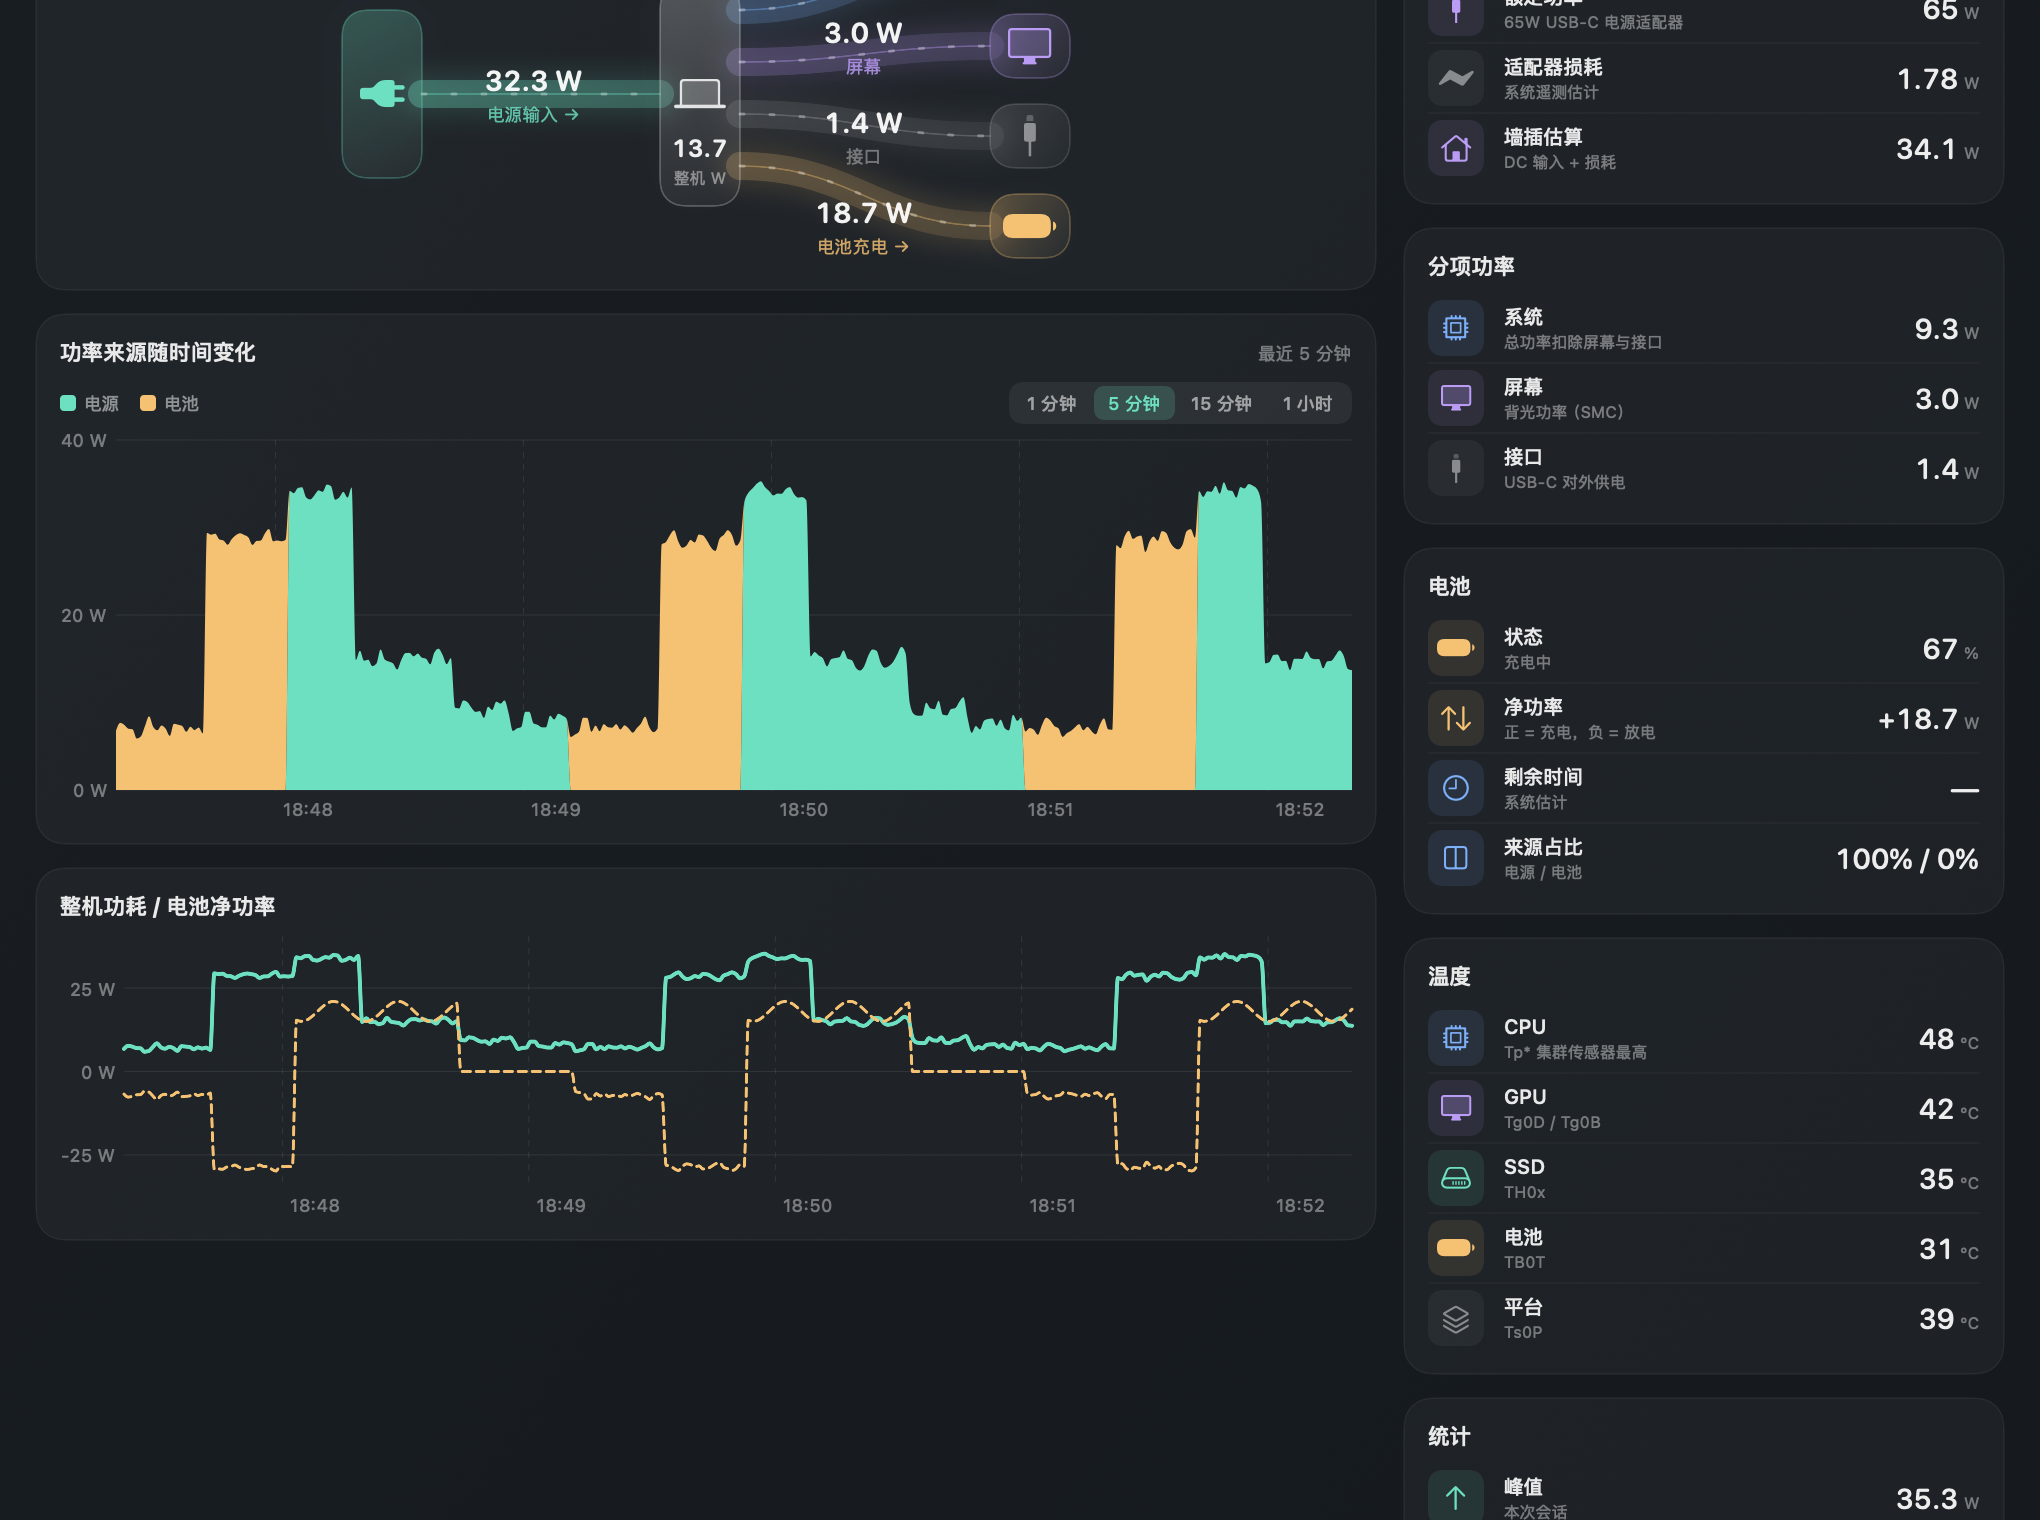
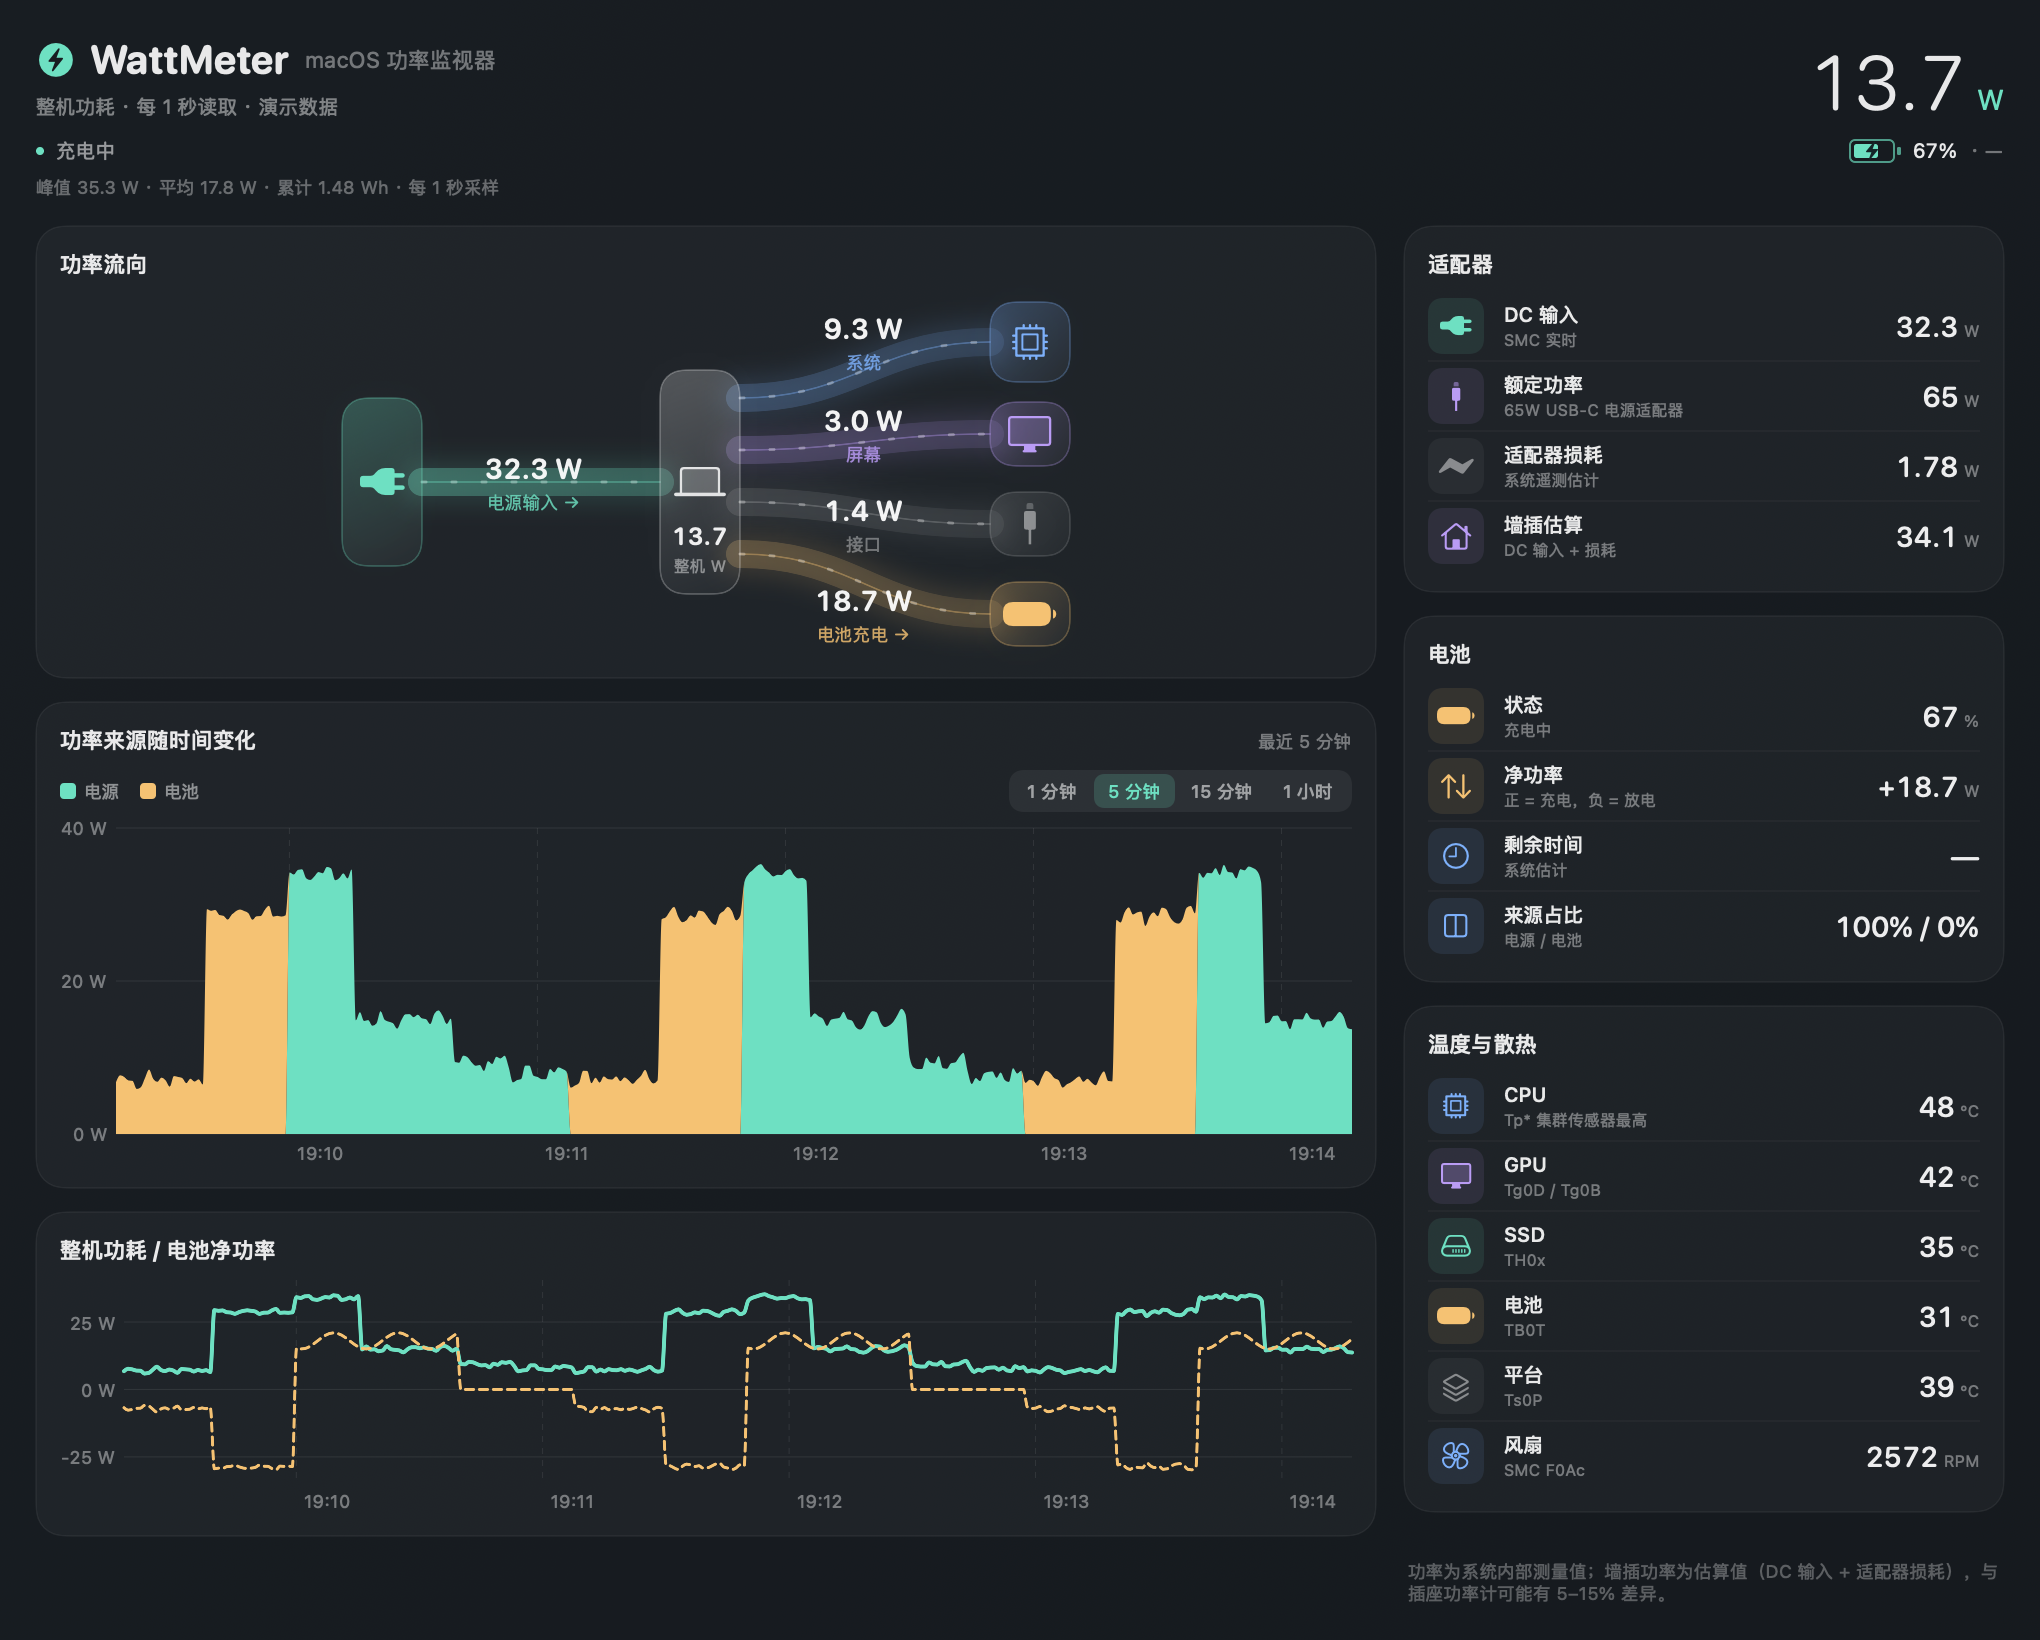
fix: size the main window to its content so nothing is clipped
- compact the layout: merge fan into the temperature card, move session
  stats into the header, drop the duplicate component card, shrink charts
- window content height is now 820 pt (was 740 pt) which matches the
  measured intrinsic content height, so the bottom of the window is no
  longer cut off
- add a vertical scroll fallback if the window is resized smaller
- update README screenshots and window/panel dimensions

diff --git a/Sources/WattMeterUI/MainWindowView.swift b/Sources/WattMeterUI/MainWindowView.swift
@@ -4,14 +4,40 @@ import WattMeterCore
 /// 主窗口：更大的流向图与图表，以及适配器 / 电池 / 统计侧栏。
 public struct MainWindowView: View {
     @ObservedObject private var store: PowerStore
+    /// 窗口里使用可滚动容器；离屏预览时关闭（ScrollView 无法被 ImageRenderer 渲染）
+    private let scrollable: Bool
 
-    public init(store: PowerStore) {
+    public init(store: PowerStore, scrollable: Bool = false) {
         self.store = store
+        self.scrollable = scrollable
     }
 
     private var samples: [PowerReading] { store.readings(in: store.windowSeconds) }
 
+    @ViewBuilder
     public var body: some View {
+        if scrollable {
+            ScrollView(.vertical, showsIndicators: false) {
+                content
+                    .padding(18)
+                    .frame(minWidth: 980)
+            }
+            .background(PanelBackground())
+            .environment(\.colorScheme, .dark)
+            .preferredColorScheme(.dark)
+            .foregroundStyle(.white.opacity(0.9))
+        } else {
+            content
+                .padding(18)
+                .frame(minWidth: 980)
+                .background(PanelBackground())
+                .environment(\.colorScheme, .dark)
+                .preferredColorScheme(.dark)
+                .foregroundStyle(.white.opacity(0.9))
+        }
+    }
+
+    private var content: some View {
         VStack(alignment: .leading, spacing: 14) {
             header
 
@@ -35,11 +61,11 @@ public struct MainWindowView: View {
                                     onSelect: { store.setWindow($0) }
                                 )
                             }
-                            SourceAreaChart(readings: samples, height: 190)
+                            SourceAreaChart(readings: samples, height: 168)
                         }
                     }
                     Card(title: "整机功耗 / 电池净功率") {
-                        PowerLineChart(readings: samples, height: 140)
+                        PowerLineChart(readings: samples, height: 116)
                     }
                 }
                 .frame(maxWidth: .infinity)
@@ -48,16 +74,10 @@ public struct MainWindowView: View {
                     .frame(width: 300)
             }
         }
-        .padding(18)
-        .frame(minWidth: 980, minHeight: 720)
-        .background(PanelBackground())
-        .environment(\.colorScheme, .dark)
-        .preferredColorScheme(.dark)
-        .foregroundStyle(.white.opacity(0.9))
     }
 
     private var header: some View {
-        VStack(alignment: .leading, spacing: 8) {
+        VStack(alignment: .leading, spacing: 6) {
             HStack(alignment: .top) {
                 VStack(alignment: .leading, spacing: 5) {
                     HStack(spacing: 7) {
@@ -77,7 +97,7 @@ public struct MainWindowView: View {
                 Spacer()
                 HStack(alignment: .firstTextBaseline, spacing: 5) {
                     Text(PowerFormat.watts(store.latest?.totalW))
-                        .font(.system(size: 44, weight: .light, design: .rounded))
+                        .font(.system(size: 38, weight: .light, design: .rounded))
                         .monospacedDigit()
                     Text("W")
                         .font(.system(size: 14))
@@ -103,6 +123,10 @@ public struct MainWindowView: View {
                 }
             }
             .font(.system(size: 10))
+
+            Text("峰值 \(PowerFormat.wattsWithUnit(store.peakW)) · 平均 \(PowerFormat.wattsWithUnit(store.averageW)) · 累计 \(String(format: "%.2f", store.sessionEnergyWh)) Wh · 每 1 秒采样")
+                .font(.system(size: 9))
+                .foregroundStyle(.white.opacity(0.35))
         }
     }
 
@@ -132,19 +156,6 @@ public struct MainWindowView: View {
                 }
             }
 
-            Card(title: "分项功率") {
-                VStack(spacing: 1) {
-                    powerRow("cpu", "系统", "总功率扣除屏幕与接口",
-                             PowerFormat.watts(store.latest?.systemComponentW), "W", Palette.blue)
-                    Divider().opacity(0.18)
-                    powerRow("display", "屏幕", store.latest?.displayPowerW == nil ? "本机无内置屏幕数据" : "背光功率（SMC）",
-                             PowerFormat.watts(store.latest?.displayPowerW), "W", Palette.purple)
-                    Divider().opacity(0.18)
-                    powerRow("cable.connector", "接口", store.latest?.portPowerW == nil ? "系统未回报接口功率" : "USB-C 对外供电",
-                             PowerFormat.watts(store.latest?.portPowerW), "W", Palette.muted)
-                }
-            }
-
             Card(title: "电池") {
                 VStack(spacing: 1) {
                     powerRow("battery.100percent", "状态", store.latest?.batteryStateText ?? "—",
@@ -160,7 +171,7 @@ public struct MainWindowView: View {
                 }
             }
 
-            Card(title: "温度") {
+            Card(title: "温度与散热") {
                 VStack(spacing: 1) {
                     powerRow("cpu", "CPU", "Tp* 集群传感器最高", tempText(store.latest?.cpuTempC), "°C", Palette.blue)
                     Divider().opacity(0.18)
@@ -171,22 +182,8 @@ public struct MainWindowView: View {
                     powerRow("battery.100percent", "电池", "TB0T", tempText(store.latest?.batteryTempC), "°C", Palette.amber)
                     Divider().opacity(0.18)
                     powerRow("square.stack.3d.up", "平台", "Ts0P", tempText(store.latest?.platformTempC), "°C", Palette.muted)
-                }
-            }
-
-            Card(title: "统计") {
-                VStack(spacing: 1) {
-                    powerRow("arrow.up", "峰值", "本次会话",
-                             PowerFormat.watts(store.peakW), "W", Palette.mint)
                     Divider().opacity(0.18)
-                    powerRow("equal", "平均", "本次会话",
-                             PowerFormat.watts(store.averageW), "W", Palette.blue)
-                    Divider().opacity(0.18)
-                    powerRow("gauge", "累计电量", "∫ 功率 dt",
-                             String(format: "%.2f", store.sessionEnergyWh), "Wh", Palette.purple)
-                    Divider().opacity(0.18)
-                    powerRow("fan", "风扇转速", "SMC F0Ac",
-                             store.latest?.fanText ?? "—", "RPM", Palette.blue)
+                    powerRow("fan", "风扇", "SMC F0Ac", store.latest?.fanText ?? "—", "RPM", Palette.blue)
                 }
             }
 

diff --git a/Sources/WattMeter/AppDelegate.swift b/Sources/WattMeter/AppDelegate.swift
@@ -32,6 +32,12 @@ final class AppDelegate: NSObject, NSApplicationDelegate {
             }
             .store(in: &cancellables)
 
+        if CommandLine.arguments.contains("--show-window") {
+            DispatchQueue.main.asyncAfter(deadline: .now() + 0.4) { [weak self] in
+                self?.openMainWindow()
+            }
+        }
+
         if CommandLine.arguments.contains("--diag") {
             DispatchQueue.main.asyncAfter(deadline: .now() + 2.0) { [weak self] in
                 self?.printDiagnostics()
@@ -145,12 +151,14 @@ final class AppDelegate: NSObject, NSApplicationDelegate {
         if popover.isShown { popover.performClose(nil) }
 
         if mainWindow == nil {
-            let controller = NSHostingController(rootView: MainWindowView(store: store))
+            let controller = NSHostingController(rootView: MainWindowView(store: store, scrollable: true))
             let window = NSWindow(contentViewController: controller)
             window.title = "WattMeter"
             window.styleMask = [.titled, .closable, .miniaturizable, .resizable]
-            window.setContentSize(NSSize(width: 1020, height: 740))
-            window.minSize = NSSize(width: 960, height: 680)
+            // 内容实测高度约 820pt；按真实内容开窗，避免底部被裁掉。
+            // 用户手动缩小时由 MainWindowView 的 ScrollView 兜底。
+            window.setContentSize(NSSize(width: 1020, height: 820))
+            window.minSize = NSSize(width: 960, height: 600)
             window.isReleasedWhenClosed = false
             window.tabbingMode = .disallowed
             window.appearance = NSAppearance(named: .darkAqua)
@@ -160,6 +168,13 @@ final class AppDelegate: NSObject, NSApplicationDelegate {
 
         NSApp.activate(ignoringOtherApps: true)
         mainWindow?.makeKeyAndOrderFront(nil)
+
+        if CommandLine.arguments.contains("--show-window"), let window = mainWindow {
+            let screen = window.screen?.visibleFrame ?? NSScreen.main?.visibleFrame ?? .zero
+            let report = "frame=\(window.frame) content=\(window.contentLayoutRect) screenVisible=\(screen)"
+            FileHandle.standardOutput.write(Data((report + "\n").utf8))
+            try? report.write(toFile: "/tmp/wattmeter-window.txt", atomically: true, encoding: .utf8)
+        }
     }
 
     @objc private func quit() {

diff --git a/Sources/wattmeter-snapshot/main.swift b/Sources/wattmeter-snapshot/main.swift
@@ -65,7 +65,7 @@ MainActor.assumeIsolated {
 
     let content: AnyView
     if viewName == "main" {
-        content = AnyView(MainWindowView(store: store).frame(width: width, height: 760))
+        content = AnyView(MainWindowView(store: store, scrollable: false).frame(width: width))
     } else if viewName == "flow" {
         content = AnyView(
             FlowDiagram(reading: store.latest)

diff --git a/README.md b/README.md
@@ -132,12 +132,13 @@ The visual language is inspired by [PowerLens](https://github.com/kinghhhin-desi
 
 | Element | Detail |
 | --- | --- |
-| Panel | 400 × 644 pt dark frosted glass (`NSVisualEffectView` with `.popover` material, behind-window, darkAqua) |
+| Panel | 400 × 666 pt dark frosted glass (`NSVisualEffectView` with `.popover` material, behind-window, darkAqua) |
 | Accents | mint `#6EE0C2` (power), amber `#F5C273` (battery), blue `#7DB0FA` (system), purple `#BA9CF5` (adapter/ports) |
 | Type | SF Rounded; 31 pt light primary readout, 19 pt medium row values, 9–10 pt captions |
 | Flow diagram | 364 × 180: source on the left, Mac in the middle, four branches on the right (system / display / ports / battery). Rounded bezier links with gradient, glow and dots flowing **from source to load**. Link width is fixed at 14 pt so the diagram does not jitter when readings change |
 | Temperatures | CPU / GPU / SSD / battery chips in the panel; a full temperature card in the main window. Values turn amber above 65 °C and red above 80 °C |
 | Charts | Stacked area of adapter vs battery, plus a total/net-battery line chart in the main window |
+| Main window | 1020 × 820 pt (scrollable if the user shrinks it): flow diagram, stacked area chart, line chart, and adapter / battery / temperature cards |
 | Menu bar | Monospaced digits, width auto-fitted, detailed tooltip, single-instance guard |
 
 Charging, discharging, battery standby and no-battery desktops each get a different diagram layout; branches without telemetry are dimmed instead of being hidden.

diff --git a/README.zh-CN.md b/README.zh-CN.md
@@ -132,12 +132,13 @@ wattmeter/
 
 | 元素 | 说明 |
 | --- | --- |
-| 面板 | 400 × 644 pt 深色毛玻璃（`NSVisualEffectView`，`.popover` 材质、behind-window、darkAqua） |
+| 面板 | 400 × 666 pt 深色毛玻璃（`NSVisualEffectView`，`.popover` 材质、behind-window、darkAqua） |
 | 强调色 | mint `#6EE0C2`（电源）、amber `#F5C273`（电池）、blue `#7DB0FA`（系统）、purple `#BA9CF5`（适配器/接口） |
 | 字体 | SF Rounded；主读数 31 pt light，行内读数 19 pt medium，说明文字 9–10 pt |
 | 流向图 | 364 × 180：左侧供电源、中间整机、右侧四条分支（系统 / 屏幕 / 接口 / 电池）。圆角贝塞尔流线，渐变 + 辉光 + **由电源向负载流动**的光点；线宽固定 14 pt，读数跳动时不会抖动 |
 | 温度 | 面板内 CPU / GPU / SSD / 电池 温度胶囊；主窗口有完整温度卡。高于 65 °C 转琥珀色，高于 80 °C 转红色 |
 | 图表 | 电源与电池的堆叠面积图；主窗口另有整机功率 / 电池净功率折线图 |
+| 主窗口 | 1020 × 820 pt（手动缩小时可滚动）：流向图、堆叠面积图、折线图，以及适配器 / 电池 / 温度卡 |
 | 菜单栏 | 等宽数字、按文字宽度自适应、tooltip 带明细、单实例保护 |
 
 充电 / 放电 / 电池待机 / 无电池的台式机各有不同的流向图布局；没有遥测的分支会变淡而不是隐藏。
